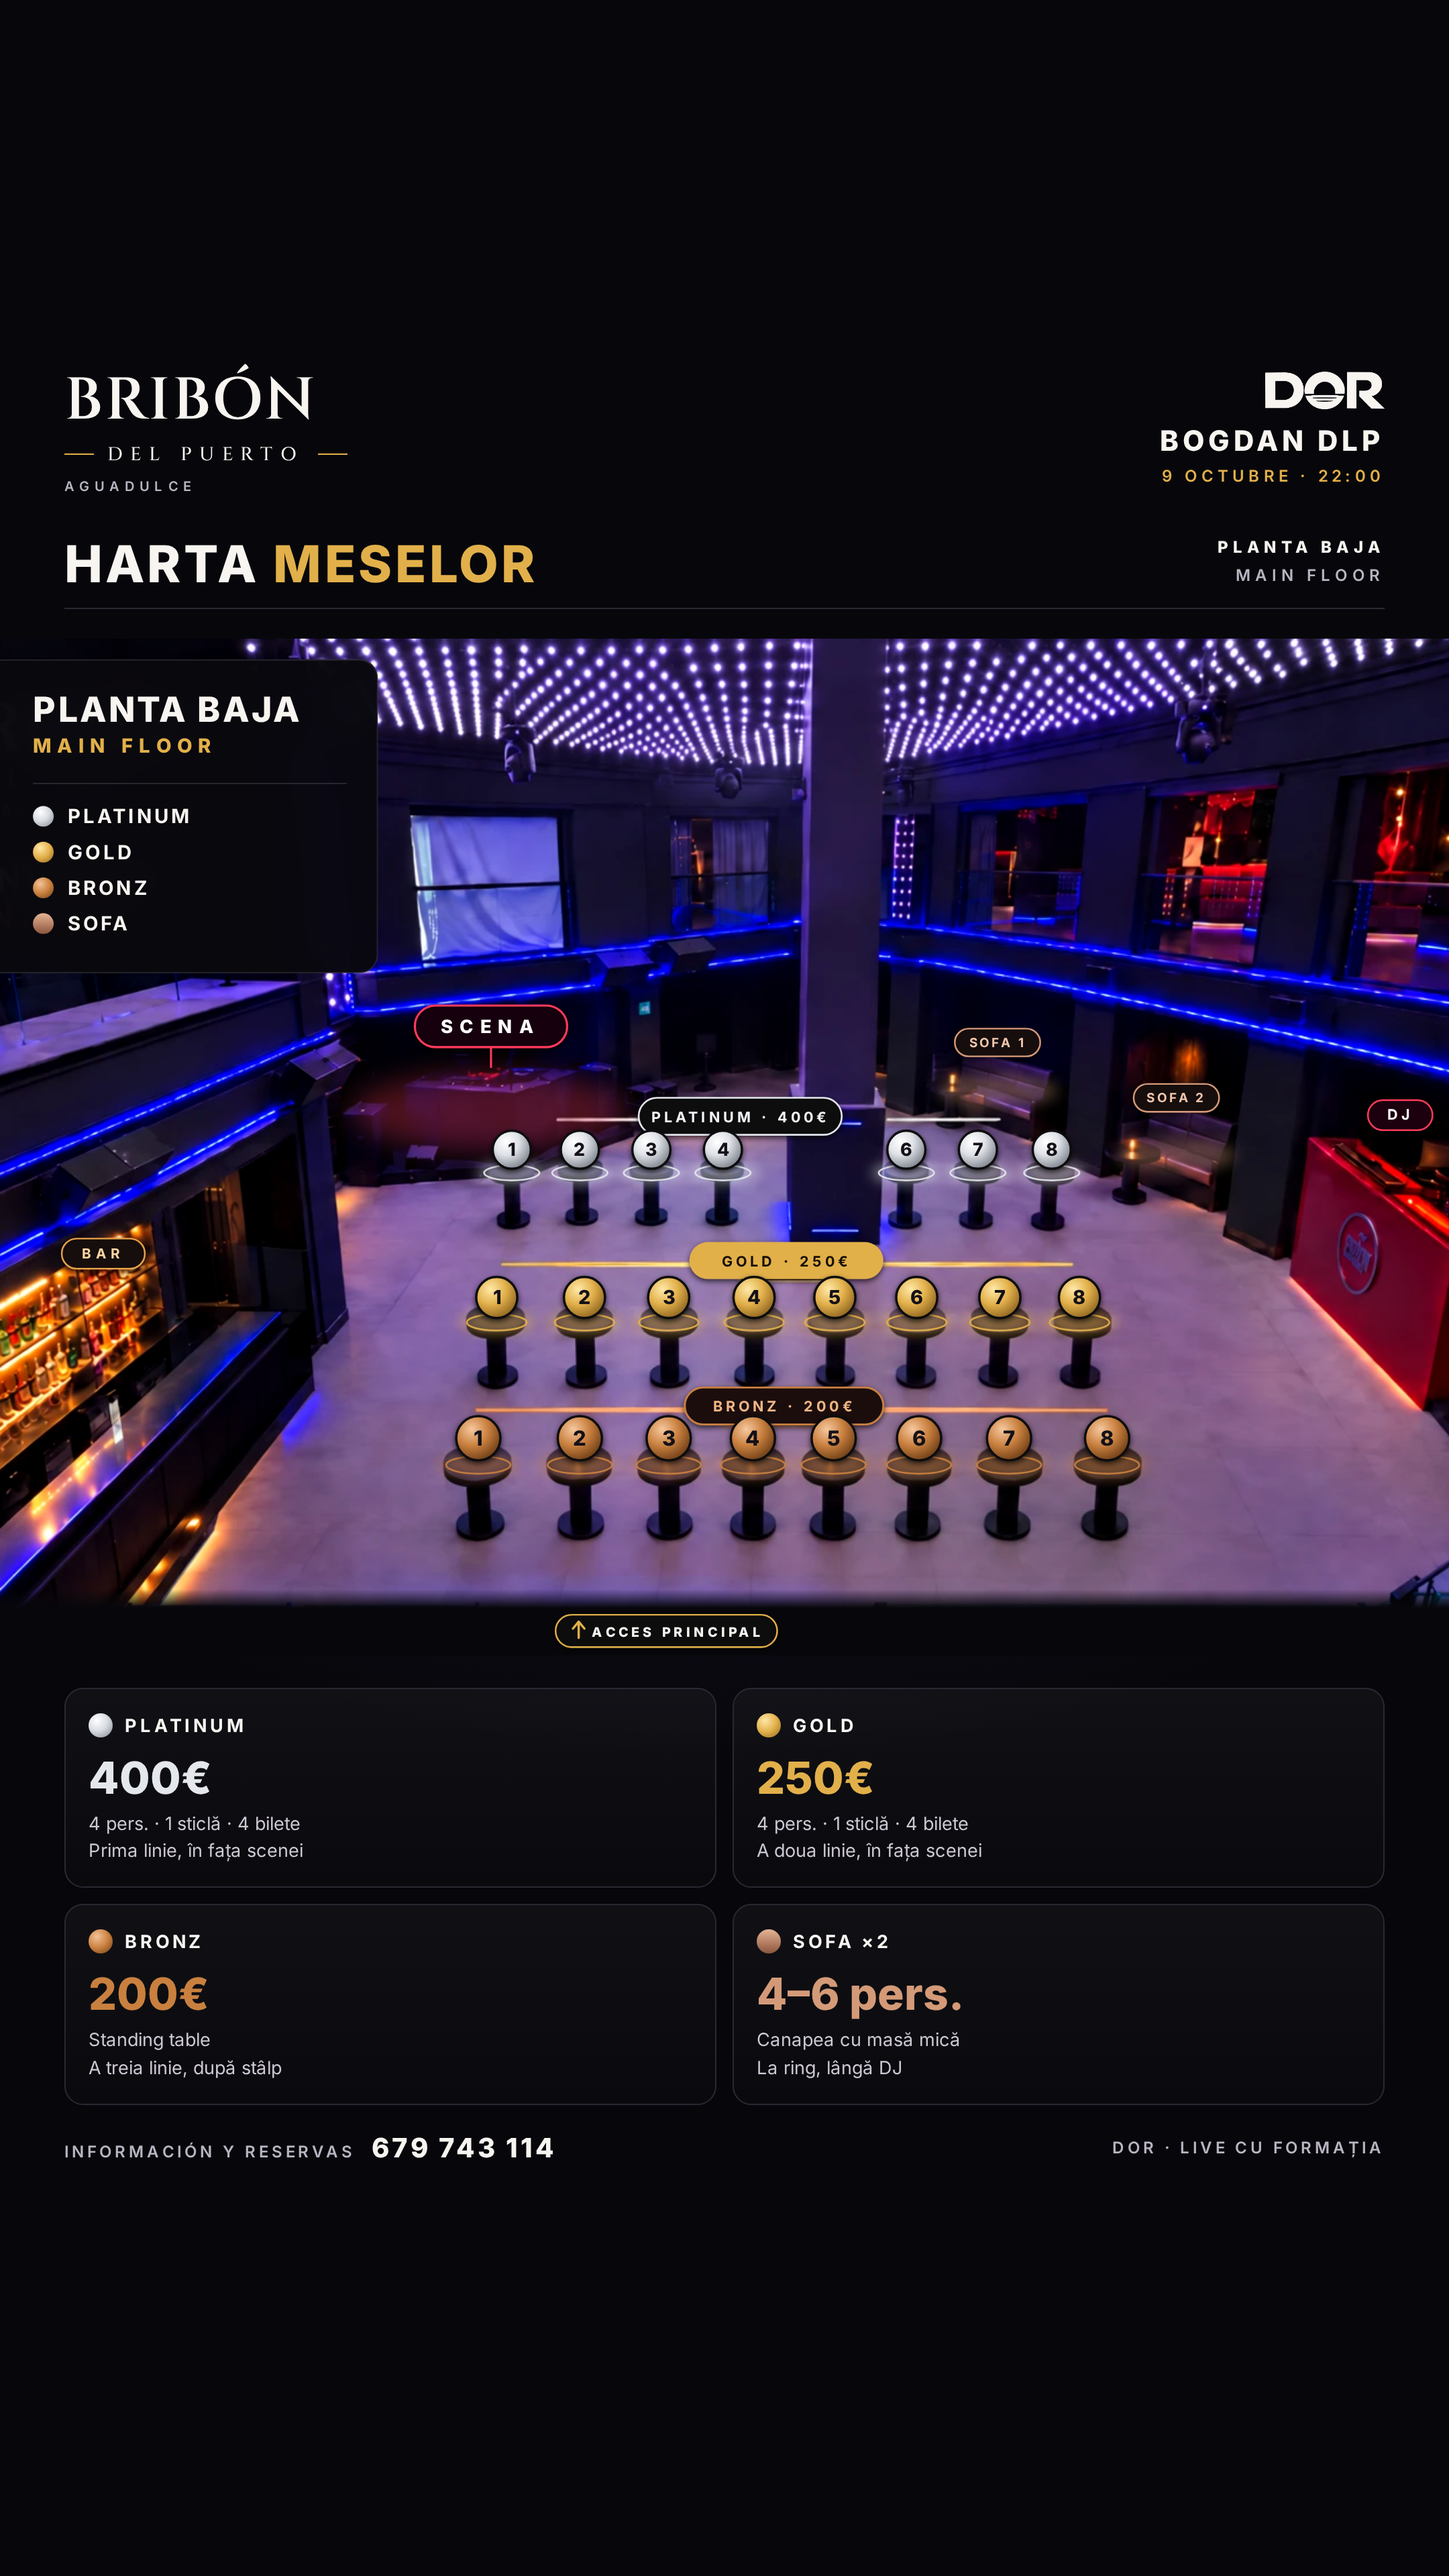
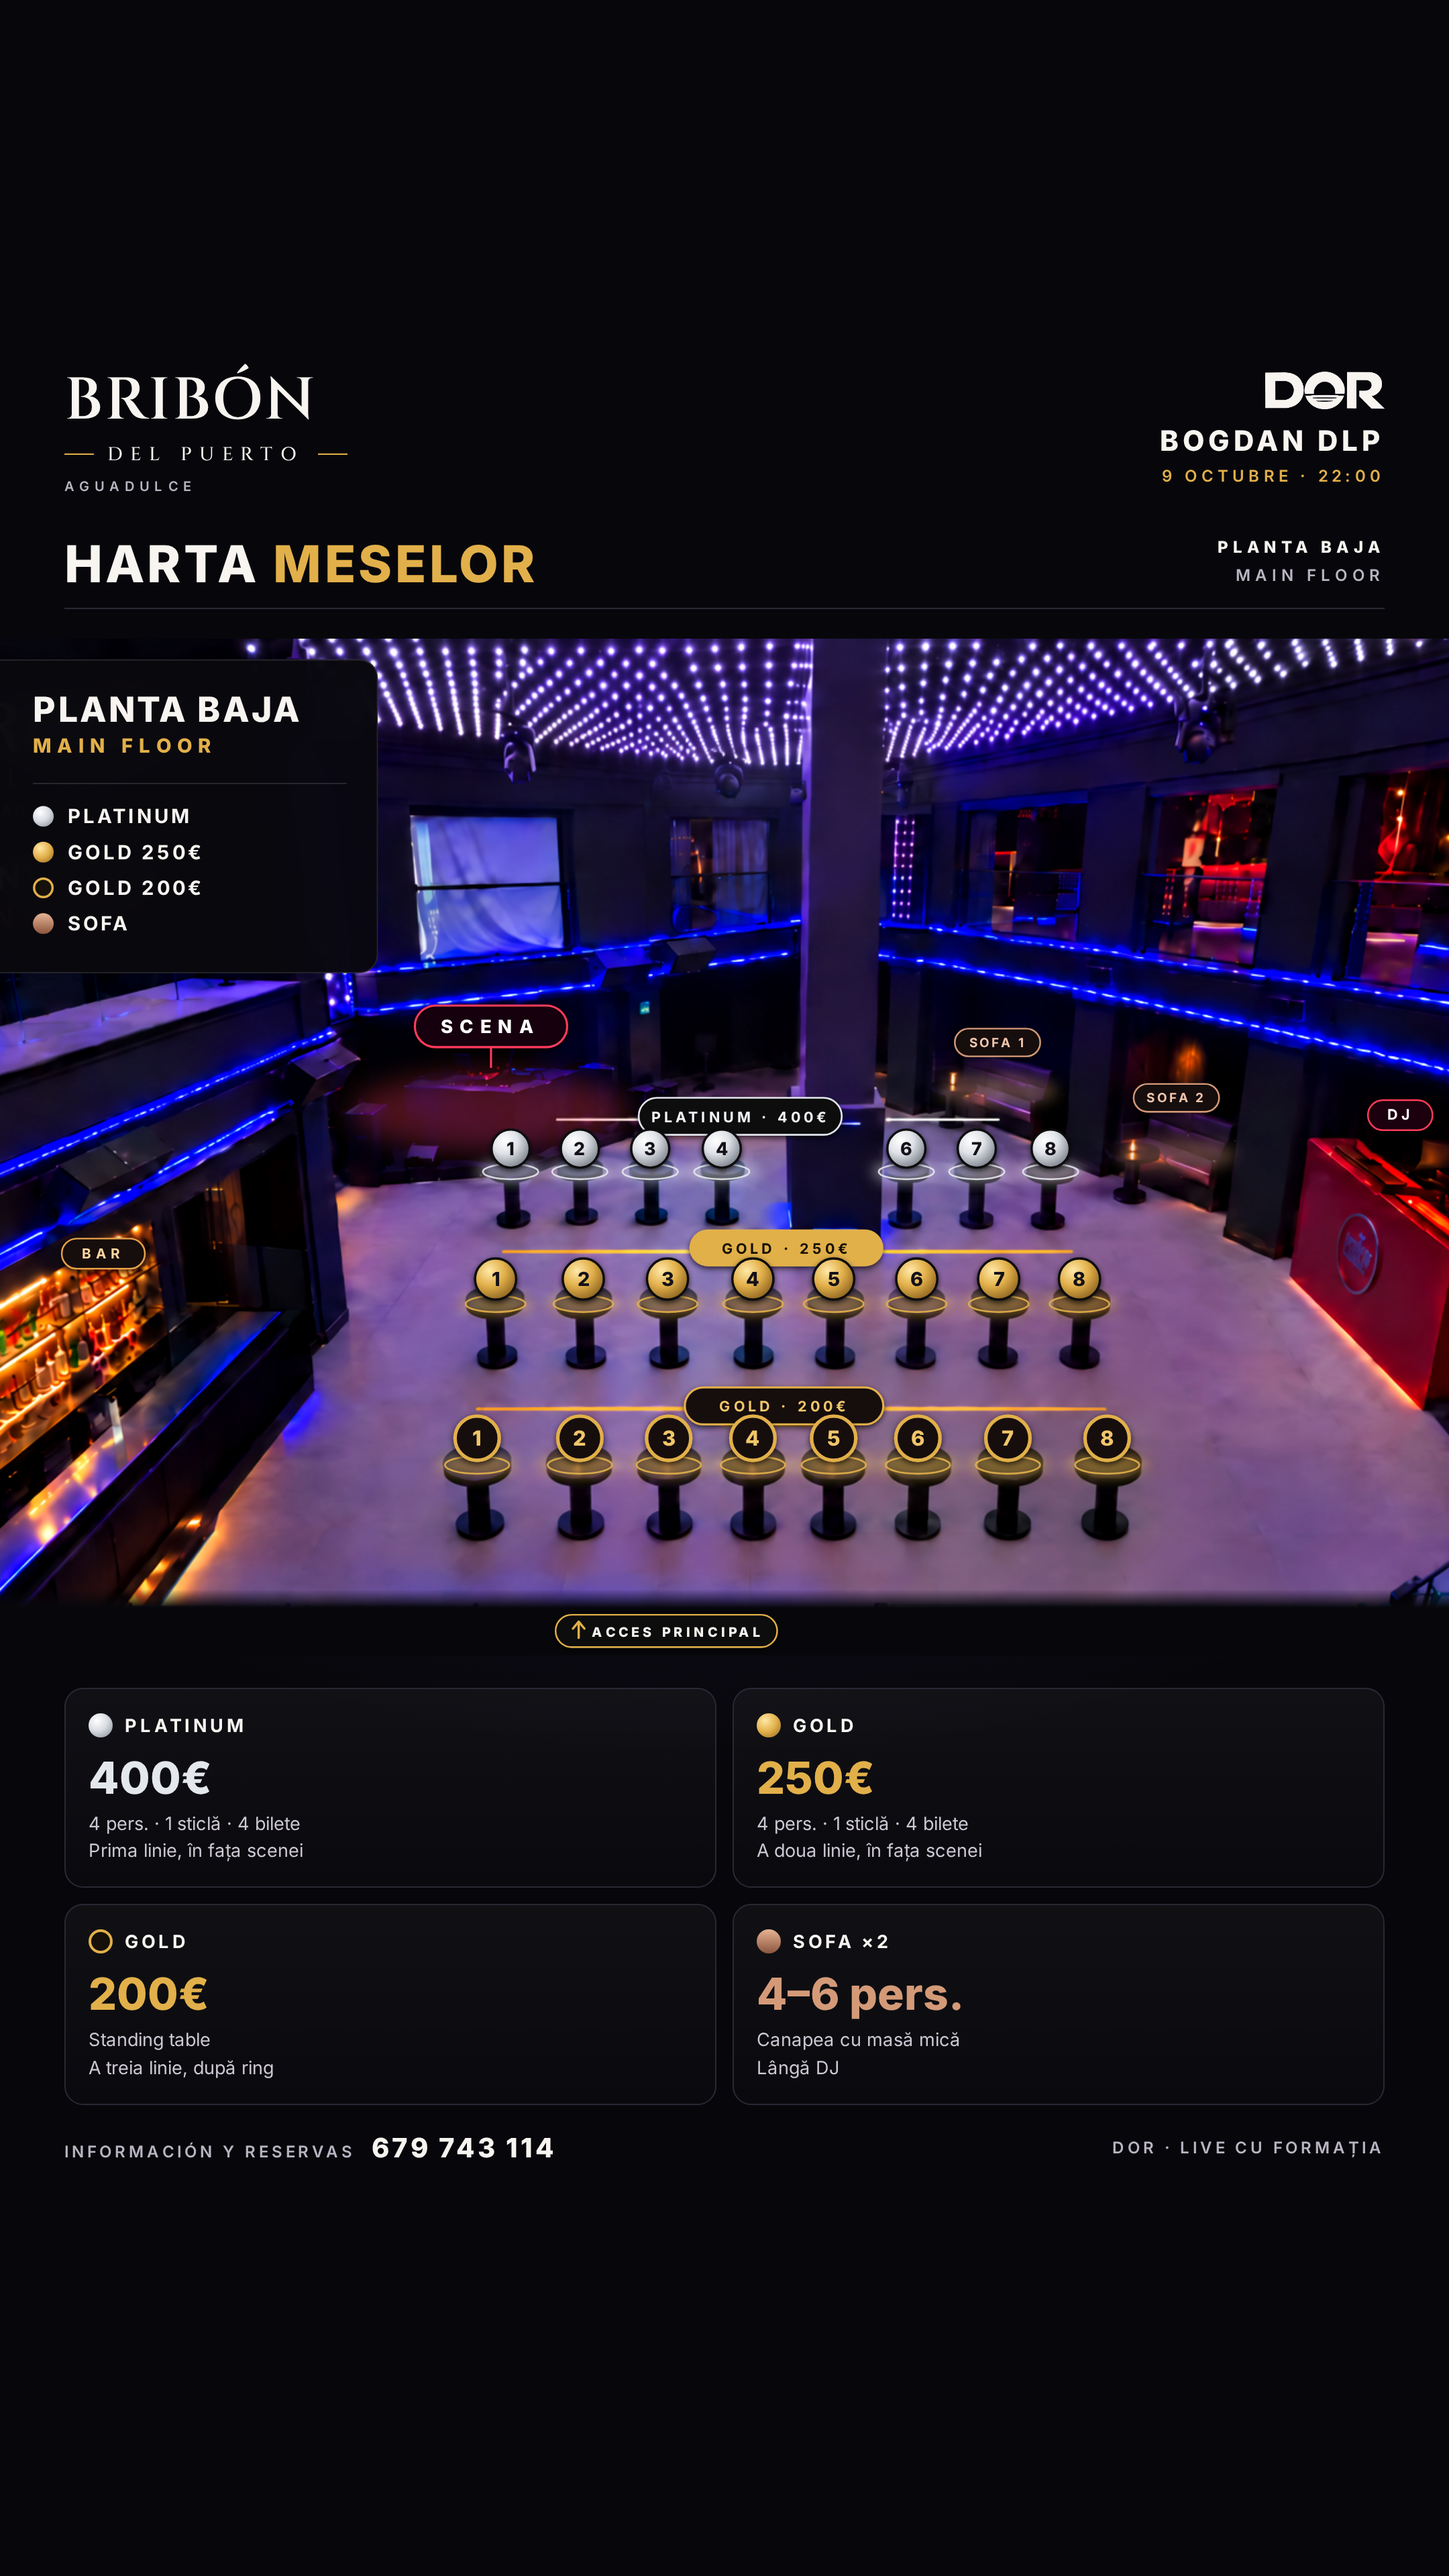
Harta pe foto: fără Bronz — rândul 3 revine la Gold 200€
Claude-Session: https://claude.ai/code/session_01CQvvotQmQH2aqorEYVjyXo

diff --git a/harta_mese/harta_foto.html b/harta_mese/harta_foto.html
@@ -50,6 +50,7 @@
   .sw.plat{background:radial-gradient(circle at 35% 30%,#fff,#d9dce2 45%,#80858f)}
   .sw.gold{background:radial-gradient(circle at 35% 30%,#ffe7a6,#e2b04a 50%,#8e6420)}
   .sw.bronze{background:radial-gradient(circle at 35% 30%,#f3c297,#c9803f 50%,#6d3d16)}
+  .sw.gold2{background:#15110a;border:2.5px solid #e2b04a}
   .sw.sofa{border-radius:4px;background:linear-gradient(180deg,#e7b394,#8a553d)}
   .c-plat{color:var(--plat)} .c-gold{color:var(--gold)} .c-bronze{color:var(--bronze)} .c-sofa{color:var(--sofa)}
 
@@ -110,7 +111,7 @@
 <body>
 
 <template id="photo">
-  <img src="surse/schita_planta_baja_v2.png" alt="">
+  <img src="surse/schita_planta_baja.png" alt="">
   <svg viewBox="0 0 1536 1024" width="1536" height="1024" font-family="Inter, sans-serif">
     <defs>
       <radialGradient id="gPlat" cx="35%" cy="30%" r="75%"><stop offset="0" stop-color="#fff"/><stop offset=".45" stop-color="#dfe2e7"/><stop offset="1" stop-color="#7c818b"/></radialGradient>
@@ -141,13 +142,13 @@
       <rect x="664" y="398" width="176" height="32" rx="16" fill="#0b0b10" stroke="#e4e7ec" stroke-width="1.5" filter="url(#shadow)"/>
       <text x="752" y="419" fill="#f2f4f7">PLATINUM · 400€</text>
 
-      <line x1="536" y1="541" x2="1050" y2="541" stroke="url(#lGold)" stroke-width="3"/>
-      <rect x="708" y="523" width="168" height="32" rx="16" fill="#e2b04a" filter="url(#shadow)"/>
-      <text x="792" y="544" fill="#150f04">GOLD · 250€</text>
+      <line x1="536" y1="530" x2="1050" y2="530" stroke="url(#lGold)" stroke-width="3"/>
+      <rect x="708" y="512" width="168" height="32" rx="16" fill="#e2b04a" filter="url(#shadow)"/>
+      <text x="792" y="533" fill="#150f04">GOLD · 250€</text>
 
-      <line x1="514" y1="667" x2="1080" y2="667" stroke="url(#lBronze)" stroke-width="3"/>
-      <rect x="704" y="649" width="172" height="32" rx="16" fill="#1a0f07" stroke="#c9803f" stroke-width="1.6" filter="url(#shadow)"/>
-      <text x="790" y="670" fill="#f0b684">BRONZ · 200€</text>
+      <line x1="514" y1="667" x2="1080" y2="667" stroke="url(#lGold)" stroke-width="3"/>
+      <rect x="704" y="649" width="172" height="32" rx="16" fill="#15110a" stroke="#e2b04a" stroke-width="1.8" filter="url(#shadow)"/>
+      <text x="790" y="670" fill="#f0c66a">GOLD · 200€</text>
     </g>
 
     <g id="marks" font-weight="800" text-anchor="middle"></g>
@@ -193,10 +194,10 @@
       <div class="s">4 pers. · 1 sticlă · 4 bilete<br>Prima linie, în fața scenei</div></div>
     <div><div class="k"><span class="sw gold"></span>GOLD</div><div class="p c-gold">250€</div>
       <div class="s">4 pers. · 1 sticlă · 4 bilete<br>A doua linie, în fața scenei</div></div>
-    <div><div class="k"><span class="sw bronze"></span>BRONZ</div><div class="p c-bronze">200€</div>
-      <div class="s">Standing table<br>A treia linie, după stâlp</div></div>
+    <div><div class="k"><span class="sw gold2"></span>GOLD</div><div class="p c-gold">200€</div>
+      <div class="s">Standing table<br>A treia linie, după ring</div></div>
     <div><div class="k"><span class="sw sofa"></span>SOFA ×2</div><div class="p c-sofa">4–6 pers.</div>
-      <div class="s">Canapea cu masă mică<br>La ring, lângă DJ</div></div>
+      <div class="s">Canapea cu masă mică<br>Lângă DJ</div></div>
     <div class="rz"><span>INFORMACIÓN Y RESERVAS</span><b>679 743 114</b><i>DOR · LIVE CU FORMAȚIA</i></div>
   </div>
 </div>
@@ -211,18 +212,18 @@
   <div class="frame"><div class="stage" id="vstage" style="transform:scale(.703125)">
     <div class="vb"></div>
     <div class="glass vp"><h2>PLANTA BAJA<span>MAIN FLOOR</span></h2>
-      <ul><li><span class="sw plat"></span>PLATINUM</li><li><span class="sw gold"></span>GOLD</li>
-          <li><span class="sw bronze"></span>BRONZ</li><li><span class="sw sofa"></span>SOFA</li></ul></div>
+      <ul><li><span class="sw plat"></span>PLATINUM</li><li><span class="sw gold"></span>GOLD 250€</li>
+          <li><span class="sw gold2"></span>GOLD 200€</li><li><span class="sw sofa"></span>SOFA</li></ul></div>
   </div></div>
   <div class="pl">
     <div><div class="k"><span class="sw plat"></span>PLATINUM</div><div class="p c-plat">400€</div>
       <div class="s">4 pers. · 1 sticlă · 4 bilete<br>Prima linie, în fața scenei</div></div>
     <div><div class="k"><span class="sw gold"></span>GOLD</div><div class="p c-gold">250€</div>
       <div class="s">4 pers. · 1 sticlă · 4 bilete<br>A doua linie, în fața scenei</div></div>
-    <div><div class="k"><span class="sw bronze"></span>BRONZ</div><div class="p c-bronze">200€</div>
-      <div class="s">Standing table<br>A treia linie, după stâlp</div></div>
+    <div><div class="k"><span class="sw gold2"></span>GOLD</div><div class="p c-gold">200€</div>
+      <div class="s">Standing table<br>A treia linie, după ring</div></div>
     <div><div class="k"><span class="sw sofa"></span>SOFA ×2</div><div class="p c-sofa">4–6 pers.</div>
-      <div class="s">Canapea cu masă mică<br>La ring, lângă DJ</div></div>
+      <div class="s">Canapea cu masă mică<br>Lângă DJ</div></div>
   </div>
   <div class="pf"><span>INFORMACIÓN Y RESERVAS<b>679 743 114</b></span><span>DOR · LIVE CU FORMAȚIA</span></div>
 </div>
@@ -235,14 +236,14 @@
 
   // poziții măsurate pe schiță (centrele bulinelor vechi, coordonate sursă 1536×1024)
   const rows = [
-    { kind: 'plat',   y: 443, xs: [554, 613, 675, 737, null, 896, 958, 1022] },
-    { kind: 'gold',   y: 571, xs: [541, 617, 690, 764, 834, 905, 977, 1046] },
-    { kind: 'bronze', y: 693, xs: [525, 613, 690, 763, 833, 907, 985, 1070] },
+    { kind: 'plat',  y: 442, xs: [553, 613, 674, 736, null, 896, 957, 1021] },
+    { kind: 'gold',  y: 555, xs: [540, 616, 689, 763, 833, 905, 976, 1046] },
+    { kind: 'gold2', y: 693, xs: [524, 613, 690, 763, 833, 906, 984, 1070] },
   ];
   const NS = 'http://www.w3.org/2000/svg';
   const el = (n, a) => { const e = document.createElementNS(NS, n); for (const k in a) e.setAttribute(k, a[k]); return e; };
-  const C = { plat: '#e4e7ec', gold: '#e2b04a', bronze: '#c9803f' };
-  const F = { plat: 'url(#gPlat)', gold: 'url(#gGold)', bronze: 'url(#gBronze)' };
+  const C = { plat: '#e4e7ec', gold: '#e2b04a', gold2: '#e2b04a' };
+  const F = { plat: 'url(#gPlat)', gold: 'url(#gGold)', gold2: '#15110a' };
   const g = host.querySelector('#marks');
   rows.forEach((r, ri) => r.xs.forEach((x, i) => {
     if (x == null) return;                       // poziția 5 Platinum = stâlpul
@@ -250,8 +251,9 @@
     const top = r.y + 20 * s;                    // blatul mesei sub bulină
     g.append(el('ellipse', { cx: x, cy: top, rx: 30 * s, ry: 9 * s, fill: C[r.kind], opacity: .55, filter: 'url(#blur6)' }));
     g.append(el('ellipse', { cx: x, cy: top, rx: 24 * s, ry: 6.5 * s, fill: 'none', stroke: C[r.kind], 'stroke-width': 1.6, opacity: .9 }));
-    g.append(el('circle', { cx: x, cy: r.y, r: 16.5 * s, fill: F[r.kind], stroke: '#0b0b10', 'stroke-width': 2, filter: 'url(#shadow)' }));
-    const t = el('text', { x, y: r.y + 5.5 * s, 'font-size': 15.5 * s, fill: '#141118' });
+    const ring = r.kind === 'gold2';               // Gold 200€: bulină cu contur, ca pe harta de plan
+    g.append(el('circle', { cx: x, cy: r.y, r: 16.5 * s, fill: F[r.kind], stroke: ring ? '#e2b04a' : '#0b0b10', 'stroke-width': ring ? 3 : 2, filter: 'url(#shadow)' }));
+    const t = el('text', { x, y: r.y + 5.5 * s, 'font-size': 15.5 * s, fill: ring ? '#f0c66a' : '#141118' });
     t.textContent = i + 1;
     g.append(t);
   }));
